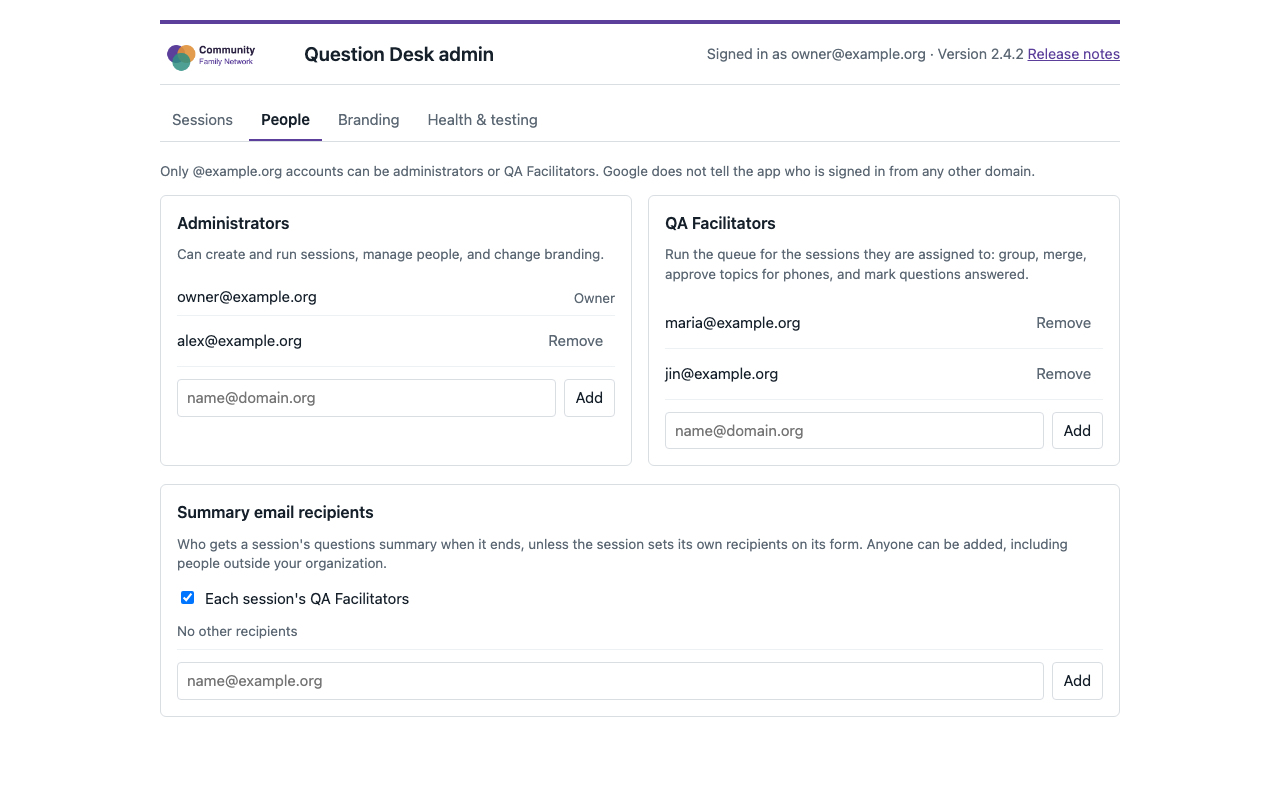
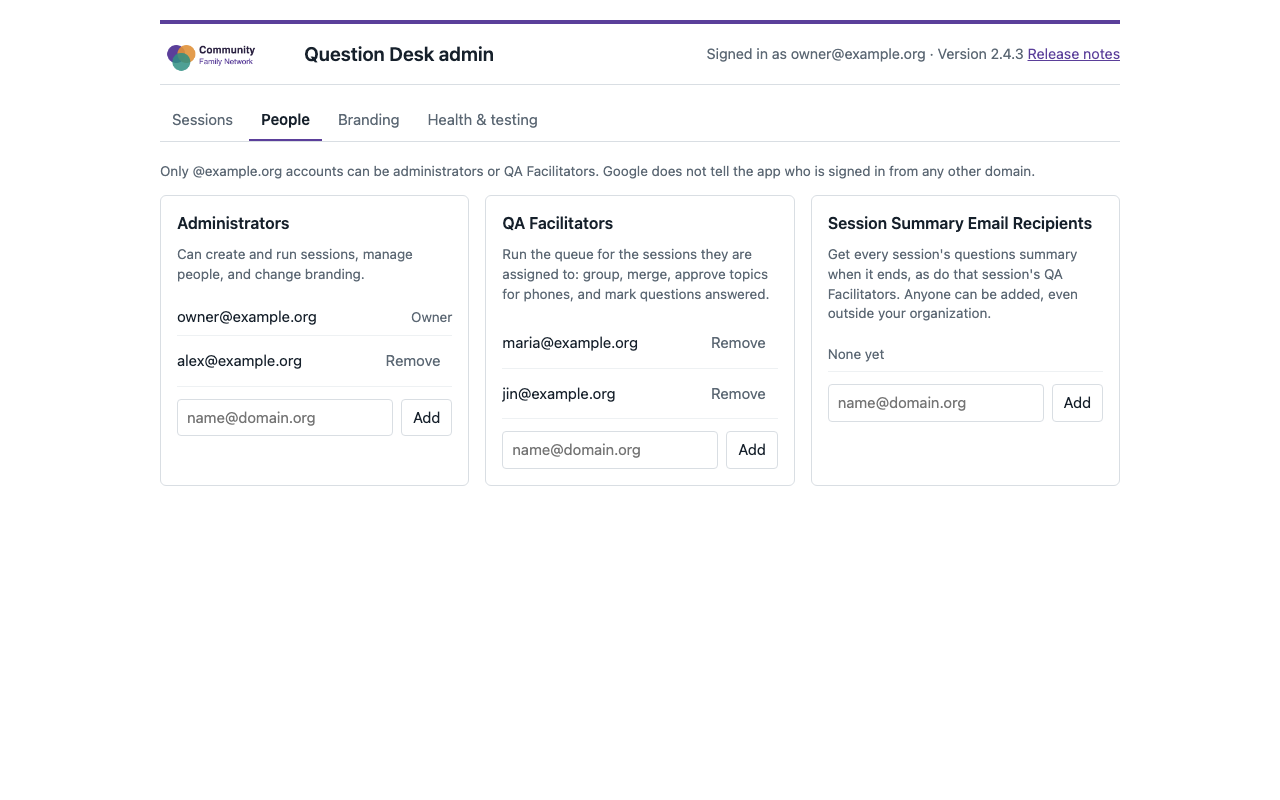
2.4.3: Session Summary Email Recipients card matches the other People cards
Claude-Session: https://claude.ai/code/session_01EY8XoE4YLwhusmYikuZqJH

diff --git a/Admin.html b/Admin.html
@@ -212,7 +212,7 @@
     </fieldset>
 
     <fieldset>
-      <legend>Summary email recipients</legend>
+      <legend>Session Summary Email Recipients</legend>
       <label class="choice"><input type="radio" name="summaryMode" value="default" checked>
         <span>Organization default<small id="f-summary-default"></small></span></label>
       <label class="choice"><input type="radio" name="summaryMode" value="custom">
@@ -299,16 +299,15 @@
         <button type="submit">Add</button>
       </form>
     </div>
-  </div>
-  <div class="panel" id="summaryPanel">
-    <h2>Summary email recipients</h2>
-    <p class="hint" style="margin-top:0">Who gets a session's questions summary when it ends, unless the session sets its own recipients on its form. Anyone can be added, including people outside your organization.</p>
-    <label class="choice"><input type="checkbox" id="d-summary-facilitators"><span>Each session's QA Facilitators</span></label>
-    <ul class="people" id="summaryList"></ul>
-    <form class="adder" id="summaryAdder">
-      <input type="email" placeholder="name@example.org" aria-label="Summary recipient email">
-      <button type="submit">Add</button>
-    </form>
+    <div class="panel" id="summaryPanel">
+      <h2>Session Summary Email Recipients</h2>
+      <p class="hint" style="margin-top:0" id="summaryHint">Get every session's questions summary when it ends. Anyone can be added, even outside your organization.</p>
+      <ul class="people" id="summaryList"></ul>
+      <form class="adder" id="summaryAdder">
+        <input type="email" placeholder="name@domain.org" aria-label="Session summary email recipient">
+        <button type="submit">Add</button>
+      </form>
+    </div>
   </div>
 </section>
 
@@ -1151,7 +1150,6 @@
     $('b-bg-light').value = state.brand.roomBgLight;
     $('b-favicon').value = state.brand.faviconUrl;
     $('b-guest').value = state.guestPageUrl;
-    $('d-summary-facilitators').checked = state.summaryDefaults.facilitators !== false;
     renderSummaryList();
     $('b-url').placeholder = state.detectedUrl;
 
@@ -1231,7 +1229,8 @@
 
   // Summary recipients: a list like administrators and QA Facilitators; every change saves.
   function saveSummary(extra, message, button) {
-    call('saveSummaryDefaults', [{ facilitators: $('d-summary-facilitators').checked, extra: extra }], function (res) {
+    // Only the list is edited here; whether session QA Facilitators also get it is left as saved.
+    call('saveSummaryDefaults', [{ facilitators: state.summaryDefaults.facilitators !== false, extra: extra }], function (res) {
       render(res);
       toast(message);
     }, button);
@@ -1240,25 +1239,30 @@
   function renderSummaryList() {
     var ul = $('summaryList');
     var extra = state.summaryDefaults.extra || [];
+    $('summaryHint').textContent = "Get every session's questions summary when it ends" +
+      (state.summaryDefaults.facilitators !== false ? ", as do that session's QA Facilitators" : '') +
+      '. Anyone can be added, even outside your organization.';
     ul.innerHTML = '';
-    if (!extra.length) ul.appendChild(el('li', 'hint', 'No other recipients'));
+    if (!extra.length) ul.appendChild(el('li', 'hint', 'None yet'));
     extra.forEach(function (email) {
       var li = el('li');
       li.appendChild(el('span', null, email));
       var rm = el('button', 'quiet', 'Remove');
       rm.type = 'button';
       rm.onclick = function () {
-        saveSummary(extra.filter(function (e) { return e !== email; }), 'Removed ' + email, rm);
+        ask({
+          title: 'Remove summary recipient?',
+          body: email + ' will no longer get session summaries, except from sessions that list them on their own form.',
+          ok: 'Remove',
+          danger: true
+        }, function () {
+          saveSummary(extra.filter(function (e) { return e !== email; }), 'Removed ' + email, rm);
+        });
       };
       li.appendChild(rm);
       ul.appendChild(li);
     });
   }
-
-  $('d-summary-facilitators').addEventListener('change', function () {
-    var box = this;
-    saveSummary(state.summaryDefaults.extra || [], box.checked ? 'QA Facilitators will get summaries' : 'QA Facilitators won\'t get summaries');
-  });
 
   $('summaryAdder').addEventListener('submit', function (e) {
     e.preventDefault();

diff --git a/browser-tests/pages.test.js b/browser-tests/pages.test.js
@@ -208,6 +208,18 @@ test('chromium: admin page loads its tabs without script errors', async () => {
       await page.click('[data-tab="' + tab + '"]');
       assert.ok(await page.isVisible('#tab-' + tab));
     }
+
+    // Session summary recipients: a card like the other two — a list and an add box, no checkbox.
+    await page.click('[data-tab="people"]');
+    const card = page.locator('#summaryPanel');
+    assert.equal((await card.locator('h2').textContent()).trim(), 'Session Summary Email Recipients');
+    assert.equal(await card.locator('input[type=checkbox]').count(), 0);
+    const cardBox = await card.boundingBox();
+    const adminBox = await page.locator('#tab-people .panel', { has: page.locator('#adminList') }).boundingBox();
+    assert.ok(Math.abs(cardBox.width - adminBox.width) < 2, 'same width as the Administrators card');
+    await card.locator('input[type=email]').fill('board@example.org');
+    await card.locator('button', { hasText: 'Add' }).click();
+    await page.waitForFunction(() => /board@example\.org/.test(document.getElementById('summaryList').textContent), null, { timeout: 5000 });
     assert.deepEqual(errors, []);
   } finally {
     await context.close();

diff --git a/Code.js b/Code.js
@@ -17,7 +17,7 @@
 
 /** Bump with every release; scripts/ship.sh tags git and publishes release notes from CHANGELOG.md. */
 const APP = {
-  version: '2.4.2',
+  version: '2.4.3',
   repo: 'https://github.com/djsincla/question-desk'
 };
 

diff --git a/CHANGELOG.md b/CHANGELOG.md
@@ -4,6 +4,14 @@ All notable changes to Question Desk. Versions follow [Semantic Versioning](http
 Each release is tagged `vX.Y.Z` and published as a GitHub release by `scripts/ship.sh`,
 which reads the notes for that version from this file.
 
+## [2.4.3] - 2026-09-13
+
+### Changed
+- **People → Session Summary Email Recipients** is now a card like Administrators and QA
+  Facilitators: a list of addresses with Remove (confirmed first) and an add box. The
+  checkbox is gone. Each session's QA Facilitators still get the summary as before, and a
+  session can still set its own recipients on its form.
+
 ## [2.4.2] - 2026-09-13
 
 ### Fixed
@@ -235,6 +243,7 @@ which reads the notes for that version from this file.
 - "Merge into one question" for reading a topic aloud.
 - Participant page in English, Korean and Spanish.
 
+[2.4.3]: https://github.com/djsincla/question-desk/releases/tag/v2.4.3
 [2.4.2]: https://github.com/djsincla/question-desk/releases/tag/v2.4.2
 [2.4.1]: https://github.com/djsincla/question-desk/releases/tag/v2.4.1
 [2.4.0]: https://github.com/djsincla/question-desk/releases/tag/v2.4.0

diff --git a/README.md b/README.md
@@ -50,7 +50,7 @@ answered topics sinking to the bottom, and dismissed questions kept for restorin
 
 <img src="docs/screenshots/slide-qr.png" alt="QR-only view shown on a PowerPoint slide" width="480">
 
-**Admin:** sessions, people and summary recipients, branding, and health checks.
+**Admin:** sessions, people and session summary recipients, branding, and health checks.
 
 ![Admin sessions](docs/screenshots/admin-sessions.png)
 
